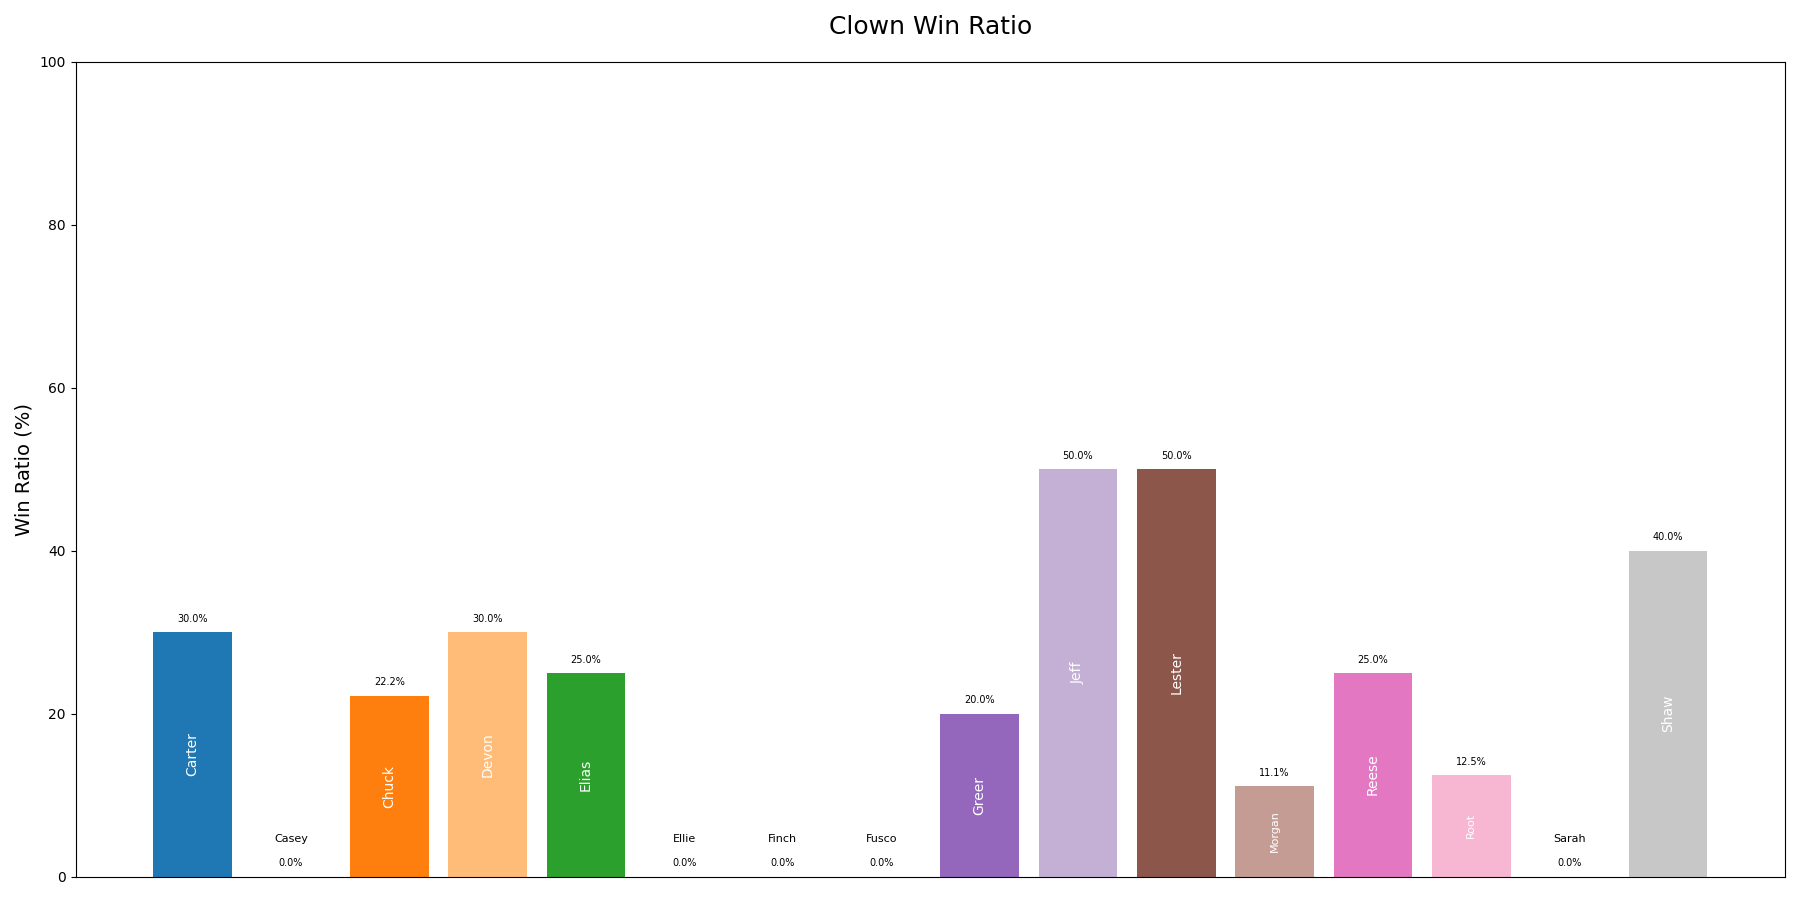
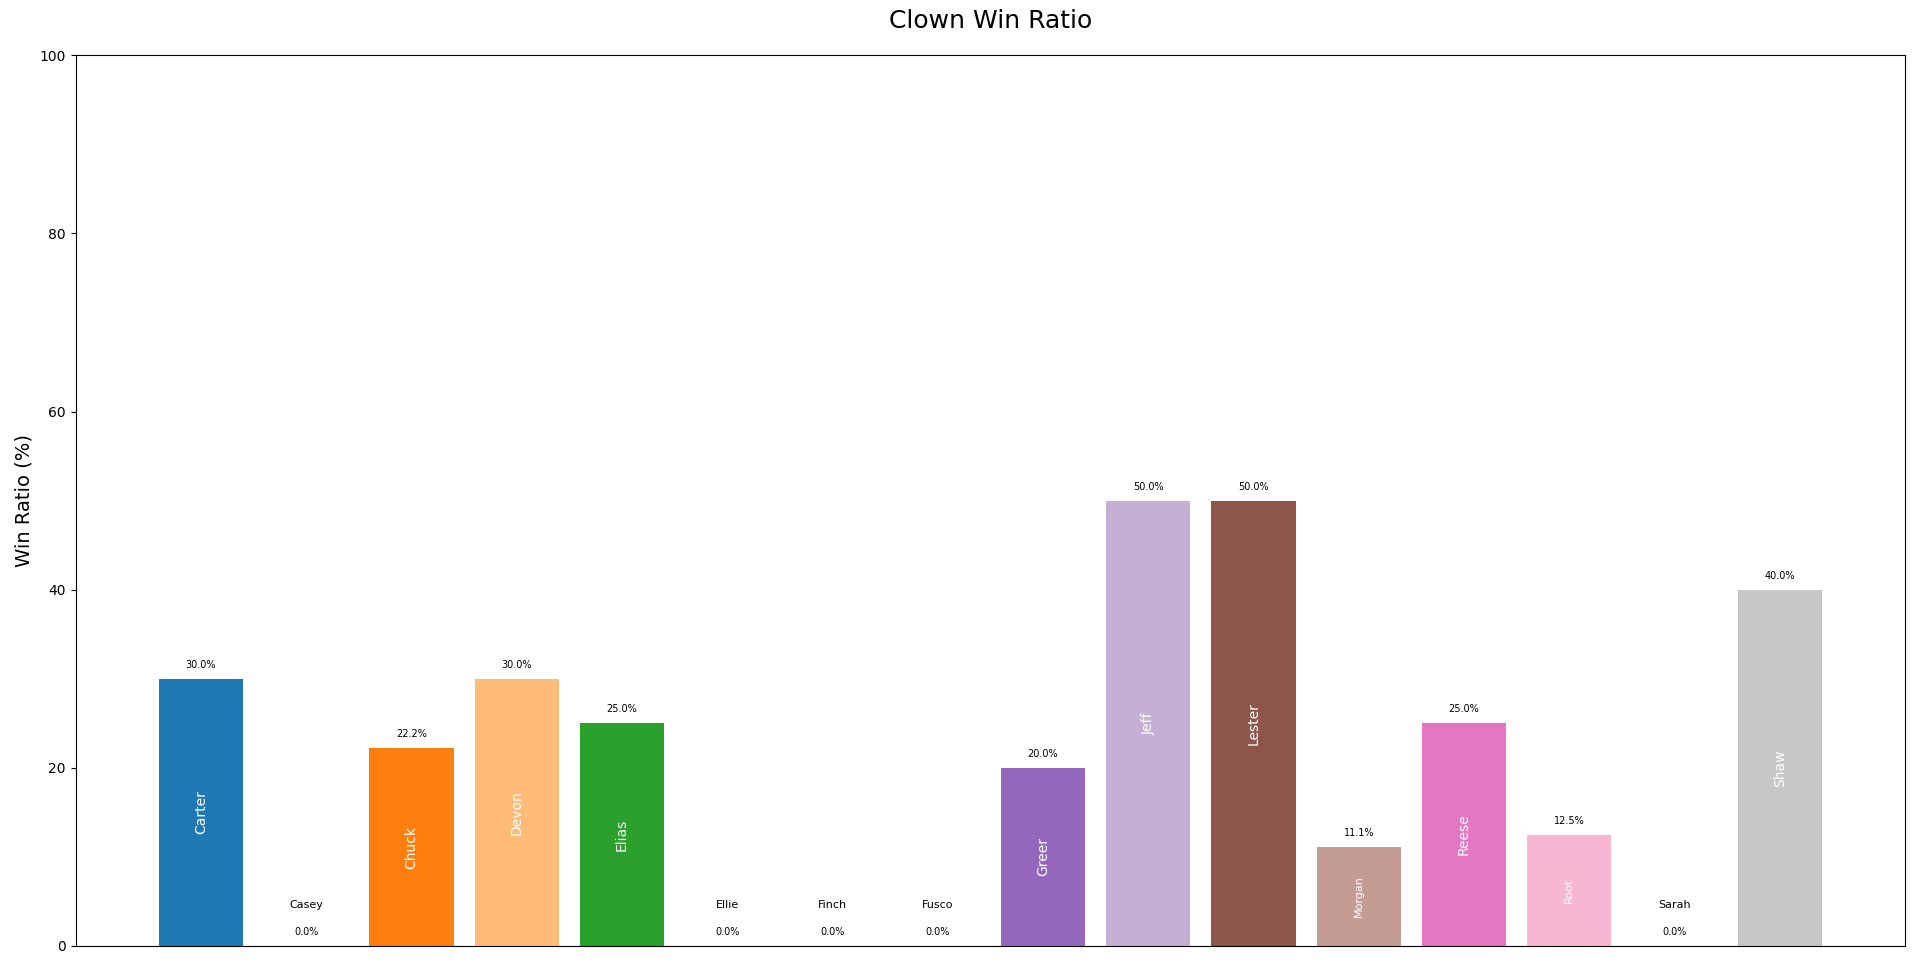
chart resolutions increased

diff --git a/charts/per_name/vampires_win_ratio.py b/charts/per_name/vampires_win_ratio.py
@@ -51,7 +51,11 @@ ENTITY_NAME_PADDING_DIRECTLY_ABOVE_BAR = 1.0 # Padding between bar and entity na
 ESTIMATED_ENTITY_NAME_LINE_HEIGHT_DATA_UNITS = 2.5 # Estimated height of one line of entity name text
 # --- End Configuration ---
 
-fig, ax = plt.subplots(figsize=(18, 9))
+# === MODIFIED LINE FOR FULL HD (1920x1080) ===
+# We set figsize to (19.2, 10.8) which at a standard 100 DPI gives 1920x1080 pixels.
+fig, ax = plt.subplots(figsize=(19.2, 10.8))
+# ===============================================
+
 bars = ax.bar(x, scores, color=colors)
 
 max_y_coord_overall = max(scores) if scores else 100.0 # Initialize with max score or 100
@@ -118,4 +122,8 @@ ax.set_title("Vampires Win Ratio", fontsize=18, pad=20) # New title
 ax.set_ylabel("Win Ratio (%)", fontsize=14) # Updated Y-axis label
 
 plt.tight_layout() # Adjust plot to ensure everything fits without overlapping
+
+# To save the figure as a 1920x1080 PNG file, uncomment the line below
+# plt.savefig('vampires_win_ratio_persons_full_hd.png', dpi=100)
+
 plt.show()

diff --git a/charts/per_name/vampire_points.py b/charts/per_name/vampire_points.py
@@ -72,7 +72,11 @@ ENTITY_NAME_PADDING_DIRECTLY_ABOVE_BAR = 0.01 # Gap if no value text is shown, o
 ESTIMATED_ENTITY_NAME_LINE_HEIGHT_DATA_UNITS = 0.025
 # --- End Configuration ---
 
-fig, ax = plt.subplots(figsize=(18, 9))
+# === MODIFIED LINE FOR FULL HD (1920x1080) ===
+# We set figsize to (19.2, 10.8) which at a standard 100 DPI gives 1920x1080 pixels.
+fig, ax = plt.subplots(figsize=(19.2, 10.8))
+# ===============================================
+
 bars = ax.bar(x, scores, color=colors)
 
 max_y_coord_overall = max(scores) if scores else 1.0 # Initialize with max score
@@ -152,4 +156,8 @@ ax.set_title("Vampire Points per game", fontsize=18, pad=20) # You might want to
 ax.set_ylabel("Points (Max = 1)", fontsize=14) # You might want to change this y-axis label
 
 plt.tight_layout()
+
+# To save the figure as a 1920x1080 PNG file, uncomment the line below
+# plt.savefig('vampire_points_persons_full_hd.png', dpi=100)
+
 plt.show()

diff --git a/charts/per_model/vampires_win_ratio.py b/charts/per_model/vampires_win_ratio.py
@@ -61,7 +61,11 @@ ENTITY_NAME_PADDING_DIRECTLY_ABOVE_BAR = 1.0 # (was 0.01)
 ESTIMATED_ENTITY_NAME_LINE_HEIGHT_DATA_UNITS = 2.5 # (was 0.025)
 # --- End Configuration ---
 
-fig, ax = plt.subplots(figsize=(18, 9)) # Keep figsize, adjust if needed
+# === MODIFIED LINE FOR FULL HD (1920x1080) ===
+# We set figsize to (19.2, 10.8) which at a standard 100 DPI gives 1920x1080 pixels.
+fig, ax = plt.subplots(figsize=(19.2, 10.8))
+# ===============================================
+
 bars = ax.bar(x, scores, color=colors)
 
 max_y_coord_overall = max(scores) if scores else 100.0 # Initialize with max score or 100
@@ -137,4 +141,8 @@ ax.set_title("Vampire Win Ratio", fontsize=18, pad=20) # New title
 ax.set_ylabel("Win Ratio (%)", fontsize=14) # New y-axis label
 
 plt.tight_layout()
+
+# To save the figure as a 1920x1080 PNG file, uncomment the line below
+# plt.savefig('vampire_win_ratio_full_hd.png', dpi=100)
+
 plt.show()

diff --git a/charts/per_name/clowns_win_ratio.py b/charts/per_name/clowns_win_ratio.py
@@ -51,7 +51,11 @@ ENTITY_NAME_PADDING_DIRECTLY_ABOVE_BAR = 1.0
 ESTIMATED_ENTITY_NAME_LINE_HEIGHT_DATA_UNITS = 2.5
 # --- End Configuration ---
 
-fig, ax = plt.subplots(figsize=(18, 9))
+# === MODIFIED LINE FOR FULL HD (1920x1080) ===
+# We set figsize to (19.2, 10.8) which at a standard 100 DPI gives 1920x1080 pixels.
+fig, ax = plt.subplots(figsize=(19.2, 10.8))
+# ===============================================
+
 bars = ax.bar(x, scores, color=colors)
 
 max_y_coord_overall = max(scores) if scores else 100.0 # Initialize with max score or 100
@@ -118,4 +122,8 @@ ax.set_title("Clown Win Ratio", fontsize=18, pad=20) # Title remains the same
 ax.set_ylabel("Win Ratio (%)", fontsize=14) # Y-axis label remains the same
 
 plt.tight_layout()
+
+# To save the figure as a 1920x1080 PNG file, uncomment the line below
+# plt.savefig('clown_win_ratio_persons_full_hd.png', dpi=100)
+
 plt.show()

diff --git a/charts/per_model/clown_win_ratio.py b/charts/per_model/clown_win_ratio.py
@@ -51,7 +51,11 @@ ENTITY_NAME_PADDING_DIRECTLY_ABOVE_BAR = 1.0
 ESTIMATED_ENTITY_NAME_LINE_HEIGHT_DATA_UNITS = 2.5
 # --- End Configuration ---
 
-fig, ax = plt.subplots(figsize=(18, 9))
+# === MODIFIED LINE FOR FULL HD (1920x1080) ===
+# We set figsize to (19.2, 10.8) which at a standard 100 DPI gives 1920x1080 pixels.
+fig, ax = plt.subplots(figsize=(19.2, 10.8))
+# ===============================================
+
 bars = ax.bar(x, scores, color=colors)
 
 max_y_coord_overall = max(scores) if scores else 100.0 # Initialize with max score or 100
@@ -116,4 +120,8 @@ ax.set_title("Clown Win Ratio", fontsize=18, pad=20) # New title
 ax.set_ylabel("Win Ratio (%)", fontsize=14) # Updated Y-axis label to match new data type
 
 plt.tight_layout()
+
+# To save the figure as a 1920x1080 PNG file, uncomment the line below
+# plt.savefig('clown_win_ratio_full_hd.png', dpi=100)
+
 plt.show()

diff --git a/charts/per_name/peasant_survival_ratio.py b/charts/per_name/peasant_survival_ratio.py
@@ -51,7 +51,11 @@ ENTITY_NAME_PADDING_DIRECTLY_ABOVE_BAR = 1.0
 ESTIMATED_ENTITY_NAME_LINE_HEIGHT_DATA_UNITS = 2.5
 # --- End Configuration ---
 
-fig, ax = plt.subplots(figsize=(18, 9))
+# === MODIFIED LINE FOR FULL HD (1920x1080) ===
+# We set figsize to (19.2, 10.8) which at a standard 100 DPI gives 1920x1080 pixels.
+fig, ax = plt.subplots(figsize=(19.2, 10.8))
+# ===============================================
+
 bars = ax.bar(x, scores, color=colors)
 
 max_y_coord_overall = max(scores) if scores else 100.0
@@ -113,4 +117,8 @@ ax.set_title("Survival Rate as a Peasant", fontsize=18, pad=20) # New title
 ax.set_ylabel("Survival Rate (%)", fontsize=14) # Updated Y-axis label to match title
 
 plt.tight_layout()
+
+# To save the figure as a 1920x1080 PNG file, uncomment the line below
+# plt.savefig('peasant_survival_rate_persons_full_hd.png', dpi=100)
+
 plt.show()

diff --git a/charts/per_model/vampire_points.py b/charts/per_model/vampire_points.py
@@ -55,7 +55,11 @@ ENTITY_NAME_PADDING_DIRECTLY_ABOVE_BAR = 0.01 # Gap if no value text is shown, o
 ESTIMATED_ENTITY_NAME_LINE_HEIGHT_DATA_UNITS = 0.025
 # --- End Configuration ---
 
-fig, ax = plt.subplots(figsize=(18, 9))
+# === MODIFIED LINE FOR FULL HD (1920x1080) ===
+# We set figsize to (19.2, 10.8) which at a standard 100 DPI gives 1920x1080 pixels.
+fig, ax = plt.subplots(figsize=(19.2, 10.8))
+# ===============================================
+
 bars = ax.bar(x, scores, color=colors)
 
 max_y_coord_overall = max(scores) if scores else 1.0 # Initialize with max score
@@ -135,4 +139,8 @@ ax.set_title("Vampire Points per game", fontsize=18, pad=20)
 ax.set_ylabel("Points (Max = 1)", fontsize=14)
 
 plt.tight_layout()
+
+# To save the figure as a 1920x1080 PNG file, uncomment the line below
+# plt.savefig('vampire_points_full_hd.png', dpi=100)
+
 plt.show()

diff --git a/charts/per_model/peasant_survival_ratio.py b/charts/per_model/peasant_survival_ratio.py
@@ -51,7 +51,11 @@ ENTITY_NAME_PADDING_DIRECTLY_ABOVE_BAR = 1.0
 ESTIMATED_ENTITY_NAME_LINE_HEIGHT_DATA_UNITS = 2.5
 # --- End Configuration ---
 
-fig, ax = plt.subplots(figsize=(18, 9))
+# === MODIFIED LINE FOR FULL HD (1920x1080) ===
+# We set figsize to (19.2, 10.8) which at a standard 100 DPI gives 1920x1080 pixels.
+fig, ax = plt.subplots(figsize=(19.2, 10.8))
+# ===============================================
+
 bars = ax.bar(x, scores, color=colors)
 
 max_y_coord_overall = max(scores) if scores else 100.0
@@ -116,4 +120,8 @@ ax.set_title("Survival Rate as a Peasant", fontsize=18, pad=20) # New title
 ax.set_ylabel("Survival Rate (%)", fontsize=14) # Updated Y-axis label
 
 plt.tight_layout()
+
+# To save the figure as a 1920x1080 PNG file, uncomment the line below
+# plt.savefig('peasant_survival_rate_full_hd.png', dpi=100)
+
 plt.show()

diff --git a/charts/per_model/peasants_win_ratio.py b/charts/per_model/peasants_win_ratio.py
@@ -51,7 +51,11 @@ ENTITY_NAME_PADDING_DIRECTLY_ABOVE_BAR = 1.0
 ESTIMATED_ENTITY_NAME_LINE_HEIGHT_DATA_UNITS = 2.5
 # --- End Configuration ---
 
-fig, ax = plt.subplots(figsize=(18, 9))
+# === MODIFIED LINE FOR FULL HD (1920x1080) ===
+# We set figsize to (19.2, 10.8) which at a standard 100 DPI gives 1920x1080 pixels.
+fig, ax = plt.subplots(figsize=(19.2, 10.8))
+# ===============================================
+
 bars = ax.bar(x, scores, color=colors)
 
 max_y_coord_overall = max(scores) if scores else 100.0
@@ -116,4 +120,8 @@ ax.set_title("Peasants Win Ratio", fontsize=18, pad=20) # New title
 ax.set_ylabel("Win Ratio (%)", fontsize=14) # Y-axis label remains appropriate
 
 plt.tight_layout()
+
+# To save the figure as a 1920x1080 PNG file, uncomment the line below
+# plt.savefig('peasants_win_ratio_full_hd.png', dpi=100)
+
 plt.show()

diff --git a/charts/per_name/peasants_win_ratio.py b/charts/per_name/peasants_win_ratio.py
@@ -51,7 +51,11 @@ ENTITY_NAME_PADDING_DIRECTLY_ABOVE_BAR = 1.0
 ESTIMATED_ENTITY_NAME_LINE_HEIGHT_DATA_UNITS = 2.5
 # --- End Configuration ---
 
-fig, ax = plt.subplots(figsize=(18, 9))
+# === MODIFIED LINE FOR FULL HD (1920x1080) ===
+# We set figsize to (19.2, 10.8) which at a standard 100 DPI gives 1920x1080 pixels.
+fig, ax = plt.subplots(figsize=(19.2, 10.8))
+# ===============================================
+
 bars = ax.bar(x, scores, color=colors)
 
 max_y_coord_overall = max(scores) if scores else 100.0
@@ -117,4 +121,8 @@ ax.set_title("Peasant Win Ratio", fontsize=18, pad=20) # New title
 ax.set_ylabel("Win Ratio (%)", fontsize=14) # Updated Y-axis label
 
 plt.tight_layout()
+
+# To save the figure as a 1920x1080 PNG file, uncomment the line below
+# plt.savefig('peasant_win_ratio_persons_full_hd.png', dpi=100)
+
 plt.show()

diff --git a/llm_call.py b/llm_call.py
@@ -144,7 +144,7 @@ if __name__ == "__main__":
 
     # 2. Define the player_model_map
     model_map = {
-        "Max": "openai/gpt-4.1",
+        "Max": "openai/o3",
     }
 
     # 3. Create a sample chat history
